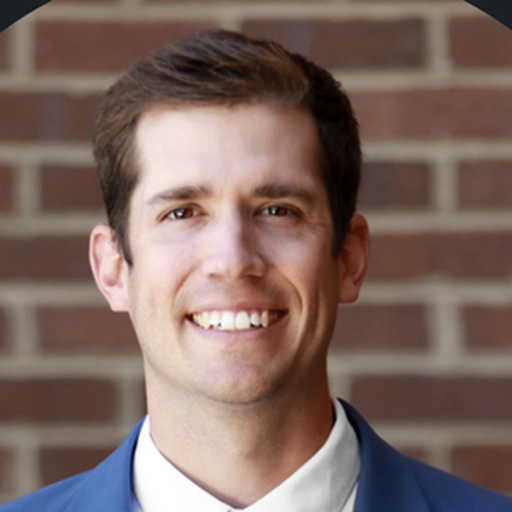
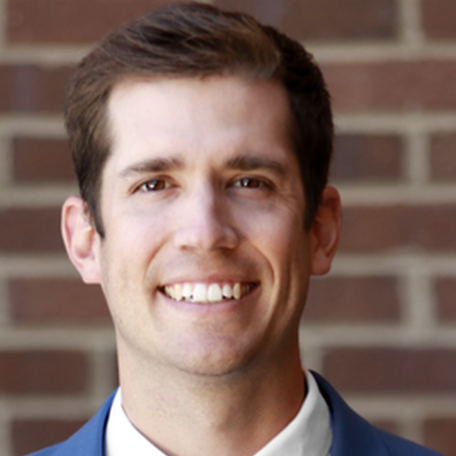
LANDING-3 part 5 and the guards
The photographs (5). Jonathan's portrait is brightened in the FILE, not with a
CSS filter: exposure and the shadows lifted in linear light and the foliage
green pulled back toward neutral, which takes the face from a mean luma of
70.8 to 84.8 and widens the red-to-green ratio. It still looks like the same
photograph on the same afternoon.

Ross's portrait had a rounded dark corner baked into it from an older
circular crop, which would have shown as black wedges inside a 28px tinted
frame. Cropped to 456x456, which clears it. NO HIGHER-RESOLUTION SOURCE
EXISTS that I can reach: kingdomlegacycollective.com redirects to an
unrelated site, kingdomlegacy.co and kingdomlegacycollective.org are parked,
and search finds nothing. It is the best one available and the report asks
for a new file. No face was generated or redrawn.

The guards. Four added to the suite that already guards this surface, rather
than a new test file, and each was proven able to fail by planting the defect
and watching it go red:

  · a button that says tour            (planted: red)
  · a people carousel on any route     (planted: red)
  · a stock photo on About, Leadership or Contact  (planted: red)
  · a Live label production cannot honour          (planted: red)

The fourth reads shared/givingSources.js and shared/oauth.js, so the page
cannot claim a provider the product has no adapter or OAuth entry for.

Two existing guards changed because LANDING-3 is what changed them. '/pricing
[…]

diff --git a/tests/landing2-marketing.test.js b/tests/landing2-marketing.test.js
@@ -25,6 +25,19 @@
 //      person's portrait swapped for anything but the repo's own files
 //  10. a demo form that sends anything but the three fields the lead route
 //      accepts, or sends anywhere but that route
+//
+// LANDING-3 added four, each one a thing that was on the site before it:
+//  11. the word "tour" on any button. There is no tour: every hero offers
+//      Book a demo and Start free, and the Why tabs say Learn more.
+//  12. a people carousel. TeamReel, .reel, .track-of-people and .tm are
+//      deleted, not hidden, and no route may render one. The research
+//      marquee (.marq) is not a people carousel and is deliberately allowed.
+//  13. a stock photograph on About, Leadership or Contact. Those three pages
+//      show real people or no people: Leadership and Contact use the repo's
+//      own portraits, and About shows none.
+//  14. a "Live" connection label that production cannot honour. The table
+//      must not promise a provider that shared/givingSources.js has no
+//      adapter for and oauth.js has no provider entry for.
 
 const fs = require("fs");
 const path = require("path");
@@ -55,6 +68,7 @@ const ALL = Object.values(SRC_TEXT).join("\n");
   const research = await import(path.join(MK, "data", "research.js"));
   const { PHOTOS } = await import(path.join(MK, "data", "photos.js"));
   const { TEAM } = await import(path.join(MK, "data", "team.js"));
+  const { CONNECTIONS } = await import(path.join(MK, "data", "connections.js"));
 
   console.log("\n— 1–4 · the copy rules —");
   {
@@ -119,6 +133,8 @@ const ALL = Object.values(SRC_TEXT).join("\n");
         const v = m[1];
         if (/^\/(marketing|landing)\//.test(v)) continue;           // asset paths
         if (/^\/lost-and-found\/(lead|benchmark)$/.test(v)) continue; // the API route the demo form posts to
+        if (v === "/billing/create-checkout") continue;              // LANDING-3: the API route /pricing posts a signed-in upgrade to
+        if (v === "/public/agreement" || v === "/public/signup") continue; // the signup page's own API routes
         linkish.push([f, v]);
       }
     }
@@ -146,7 +162,15 @@ const ALL = Object.values(SRC_TEXT).join("\n");
     const toRe = p => new RegExp("^" + p.replace(/:[^/]+/g, "[^/]+") + "$");
     const clash = ROUTES.filter(r => appPaths.some(a => toRe(a).test(r.path))).map(r => r.path);
     ok("no marketing route shadows an app route in main.jsx (" + appPaths.length + " app routes)", appPaths.length > 20 && clash.length === 0, clash);
-    ok("/pricing stays the app's page", appPaths.includes("/pricing") && !ROUTES.some(r => r.path === "/pricing"));
+    // LANDING-3 part 1 turned this one around. /pricing was pinned to the app
+    // because the app page carried the signed-in Stripe checkout. It is a
+    // marketing route now, and the checkout moved with it, so what has to hold
+    // is the opposite: the marketing page owns the path AND still posts to
+    // /billing/create-checkout, or a paying organisation cannot change plan.
+    ok("/pricing is the marketing page now", !appPaths.includes("/pricing") && ROUTES.some(r => r.path === "/pricing"));
+    ok("…and it kept the signed-in checkout the app page had",
+      /\/billing\/create-checkout/.test(SRC_TEXT["client/src/marketing/pages/pricing.jsx"])
+      && /useAuth/.test(SRC_TEXT["client/src/marketing/pages/pricing.jsx"]));
     ok("/lost-and-found stays the app's audit", appPaths.includes("/lost-and-found") && !ROUTES.some(r => r.path === "/lost-and-found"));
     const vj = JSON.parse(fs.readFileSync(path.join(ROOT, "vercel.json"), "utf8"));
     const rw = (vj.rewrites || []).map(r => r.source).filter(s => s !== "/(.*)");
@@ -202,6 +226,50 @@ const ALL = Object.values(SRC_TEXT).join("\n");
     ok("…and posts it to the Lost & Found lead route, the table super-admin lists", /fetch\(API \+ "\/lost-and-found\/lead"/.test(why) && /DEMO_REF = "book-a-demo"/.test(why));
     ok("the marketing source makes no other request (calculators compute in the browser)", (ALL.match(/fetch\(/g) || []).length === 1);
     ok("the thank-you state is the reference's sentence", why.includes("Thank you. Jonathan will email you within one business day to pick a time."));
+  }
+
+  console.log("\n— 11 · LANDING-3 —");
+  {
+    // 11 · no tour on a button. Prose may say "a tour of the facility"; a
+    // button may not say "Take a tour".
+    const btn = [];
+    for (const [f, t] of Object.entries(SRC_TEXT)) {
+      for (const m of t.matchAll(/<(Pill|button)\b[^>]*>([^<]*)</gi)) if (/tour/i.test(m[2])) btn.push(f + " " + m[2].trim());
+      for (const m of t.matchAll(/className="[^"]*\b(pill|go)\b[^"]*"[^>]*>([^<]*)</gi)) if (/tour/i.test(m[2])) btn.push(f + " " + m[2].trim());
+    }
+    ok("no button anywhere says tour", btn.length === 0, btn);
+    ok("every hero's second call to action is Start free", /href="\/signup">Start free/.test(SRC_TEXT["client/src/marketing/lib.jsx"]));
+
+    // 12 · no people carousel, and the component is gone rather than unused.
+    const css = SRC_TEXT["client/src/marketing/site.css"];
+    ok("the people reel component is deleted", !/TeamReel/.test(ALL));
+    ok("…and so are its CSS rules", !/\.mk \.reel\b/.test(css) && !/\.mk \.tm\{/.test(css));
+    ok("the research marquee is untouched", /\.mk \.marq/.test(css) && /className="marq"/.test(ALL));
+
+    // 13 · no stock photograph of a person on the three people pages.
+    const why = SRC_TEXT["client/src/marketing/pages/why.jsx"];
+    const sliceOf = n => { const i = why.indexOf("export function " + n); const j = why.indexOf("export function ", i + 10); return why.slice(i, j < 0 ? undefined : j); };
+    const stock = ["About", "Leadership", "Contact"].filter(n => /<Photo\b/.test(sliceOf(n)));
+    ok("no stock photo on About, Leadership or Contact", stock.length === 0, stock);
+    ok("…and Leadership and Contact still show the repo's own portraits", /<People \/>/.test(sliceOf("Leadership")) && /<Portrait\b/.test(sliceOf("Contact")));
+
+    // 14 · a Live label production can honour.
+    const src = fs.readFileSync(path.join(ROOT, "shared", "givingSources.js"), "utf8");
+    const oauth = fs.readFileSync(path.join(ROOT, "shared", "oauth.js"), "utf8");
+    const NEEDS_ADAPTER = { PayPal: "paypal", Givebutter: "givebutter", Square: "square", Stripe: "stripe", Donorbox: "donorbox" };
+    const NEEDS_OAUTH = { Mailchimp: "mailchimp", Xero: "xero", "QuickBooks Online": "intuit" };
+    const lies = [];
+    for (const [name, , state] of CONNECTIONS) {
+      if (state !== "Live") continue;
+      const a = NEEDS_ADAPTER[name];
+      if (a && !new RegExp('key: "' + a + '"').test(src)) lies.push(name + " has no adapter");
+      const o = NEEDS_OAUTH[name];
+      if (o && !new RegExp("^\\s*" + o + ": \\{", "m").test(oauth)) lies.push(name + " has no oauth provider");
+    }
+    ok("no connection is labelled Live that production cannot honour", lies.length === 0, lies);
+    ok("Donorbox is honestly Coming (there is no Donorbox adapter)",
+      CONNECTIONS.some(c => c[0] === "Donorbox" && c[2] === "Coming") && !/key: "donorbox"/.test(src));
+    ok("the retired label is gone from every page", !/Set up with you/.test(ALL.replace(/^\s*\/\/.*$/gm, "")));
   }
 
   console.log(`\n${pass} passed, ${fail} failed`);

diff --git a/client/src/marketing/pages/why.jsx b/client/src/marketing/pages/why.jsx
@@ -101,14 +101,13 @@ export function Security() {
 export function About() {
   return <>
     <Crumbs list={[["Company"], ["About"]]} />
-    <section className="hero phero"><div className="wrap hero-g">
+    <section className="hero phero"><div className="wrap hero-g solo">
       <div>
         <div className="eyebrow">About Steward</div>
         <h1 className="mix h-xl">Small shops deserve <b>great software.</b></h1>
         <p className="lede">Most nonprofits are run by a handful of people doing the work of twenty. Steward exists so the few people raising the money can spend their time on donors, not on software.</p>
         <div className="ctas"><Pill href="/demo">Book a demo</Pill><Pill kind="soft" href="/signup">Start free</Pill></div>
       </div>
-      <div className="collage one"><Photo k="table-papers" cls="p1 tall" eager /></div>
     </div></section>
 
     <section style={{ paddingTop: 0 }}><div className="wrap"><div className="mission">
@@ -157,7 +156,7 @@ export function About() {
         p="Small releases, every week, each one tested before it reaches you. Every change is recorded in the audit log, and every release is listed on our What's new page. When we get something wrong we say so and fix it."
         sh="Built with the people who use it."
         sp="Every feature starts from a real nonprofit's week: a gala that needed seating, a bookkeeper who needed a clean file, a director who couldn't find the inbox button."
-        photo="review-report" />
+        ui={<Ui t="What's new" k="spark" rows={[["1", "Audit log for everything", "Every change, with the before and after", "Shipped", "c"], ["2", "Grouped sidebar", "Navigation by job, and a Customize option", "Shipped", "c"], ["3", "Connections and watching", "A warning the day a tool goes quiet", "Shipped", "c"]]} />} />
     </div></section>
 
     <section className="pricing"><div className="wrap">

diff --git a/client/src/marketing/routes.js b/client/src/marketing/routes.js
@@ -37,7 +37,7 @@ export const ROUTES = [
   { path: "/features", page: "features", title: T("Everything included, nothing to unlock."), description: "Every feature is on every plan. No add-ons, no premium tier and no surprise invoice when you grow." },
   ...FEATURE_SLUGS.map(s => ({ path: "/features/" + s, page: "feature", slug: s, title: T(FEAT[s].h), description: FEAT[s].lede })),
 
-  // LANDING-3 part 1 — /pricing moved here from the app router. The page
+  // LANDING-3 part 1: /pricing moved here from the app router. The page
   // still carries the signed-in Stripe checkout, so the upgrade path from
   // UpgradeModal, goToPricing() and Settings is unchanged.
   { path: "/pricing", page: "pricing", title: T("Pricing that respects your budget."), description: "Every feature on every plan, priced by active donors. Seed $199, Sapling $299, Orchard $499 a month, and a conversation above ten thousand donors. Thirty days free, then month to month." },
